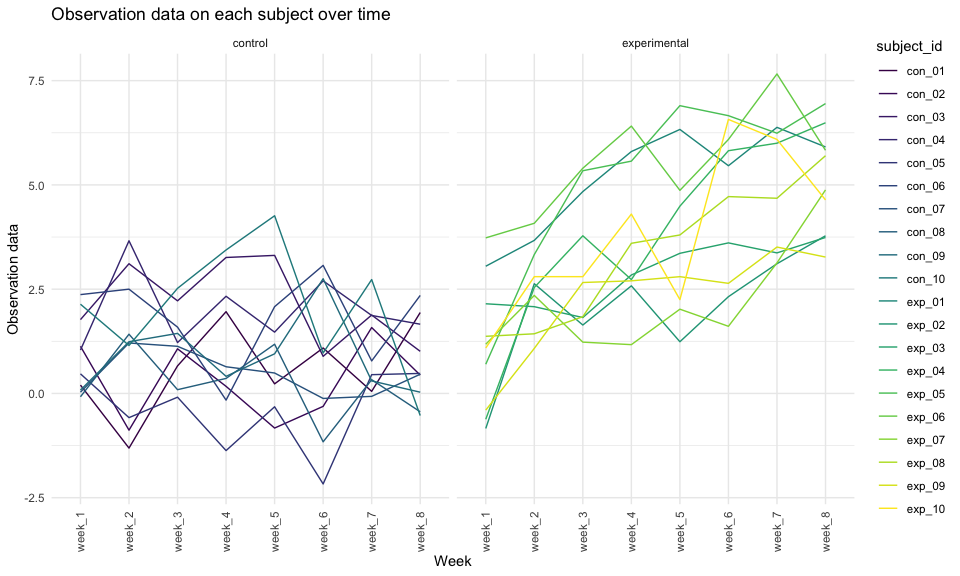
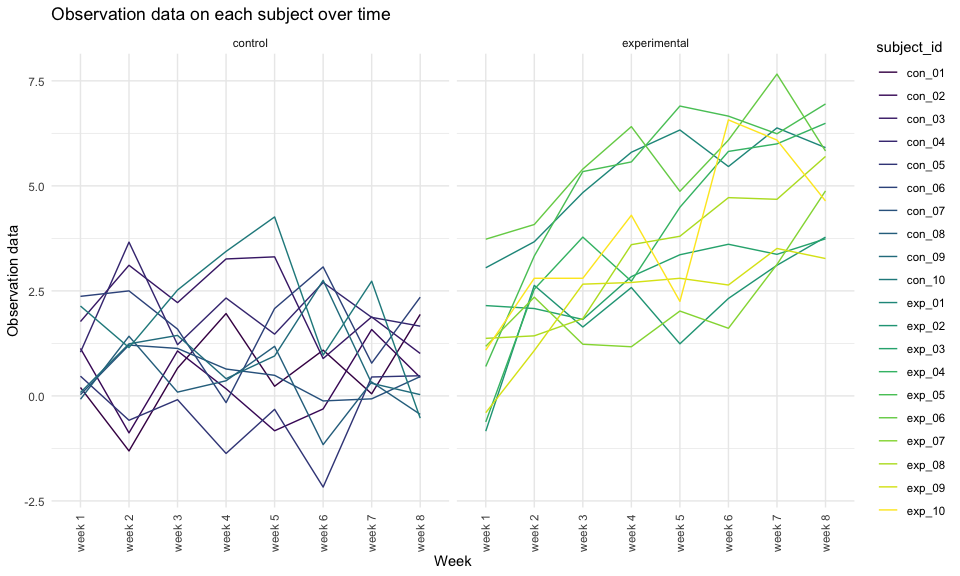
tidying week column --> using str_replace to replace the "_" with a blank

diff --git a/p8105_hw5_rr3423.md b/p8105_hw5_rr3423.md
@@ -309,7 +309,8 @@ tidy_participants_df =
   ) %>% 
   mutate(
     week = factor(week,levels = c("week_1", "week_2", "week_3", "week_4",
-                                  "week_5", "week_6", "week_7", "week_8"))
+                                  "week_5", "week_6", "week_7", "week_8")),
+    week = str_replace(week, "_", " ")
   )
 ```
 
